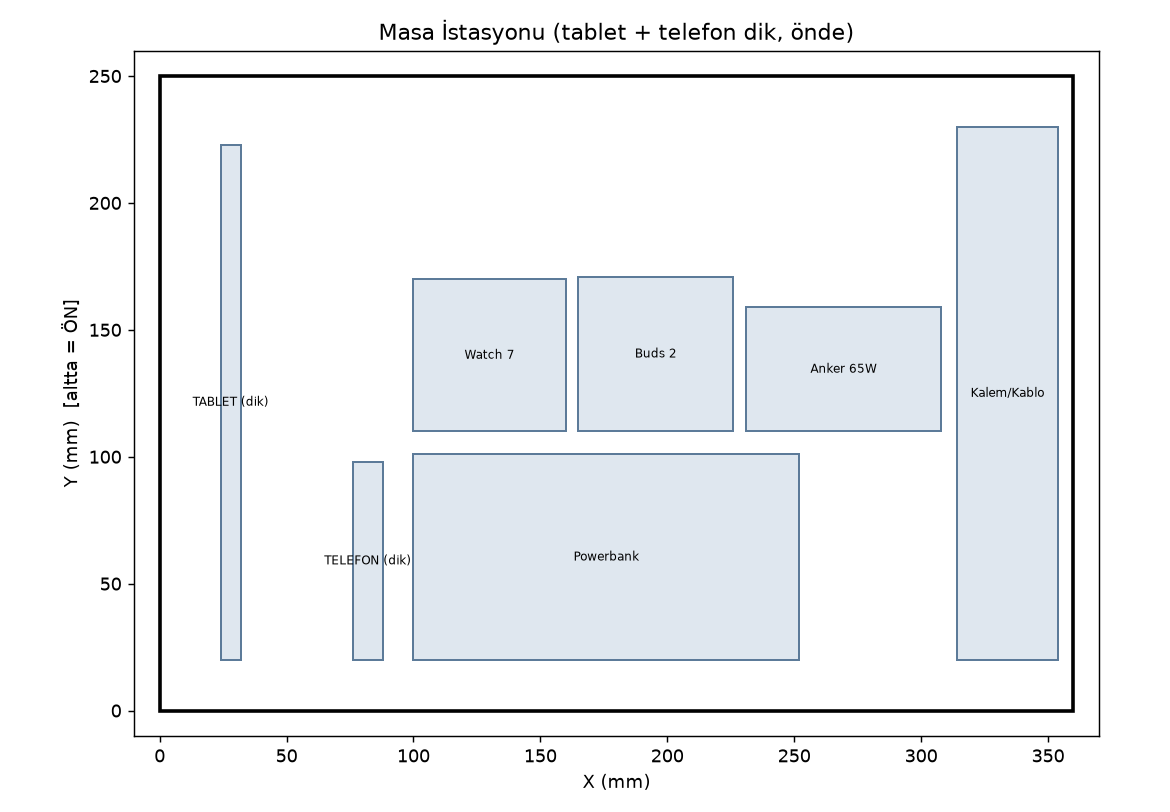
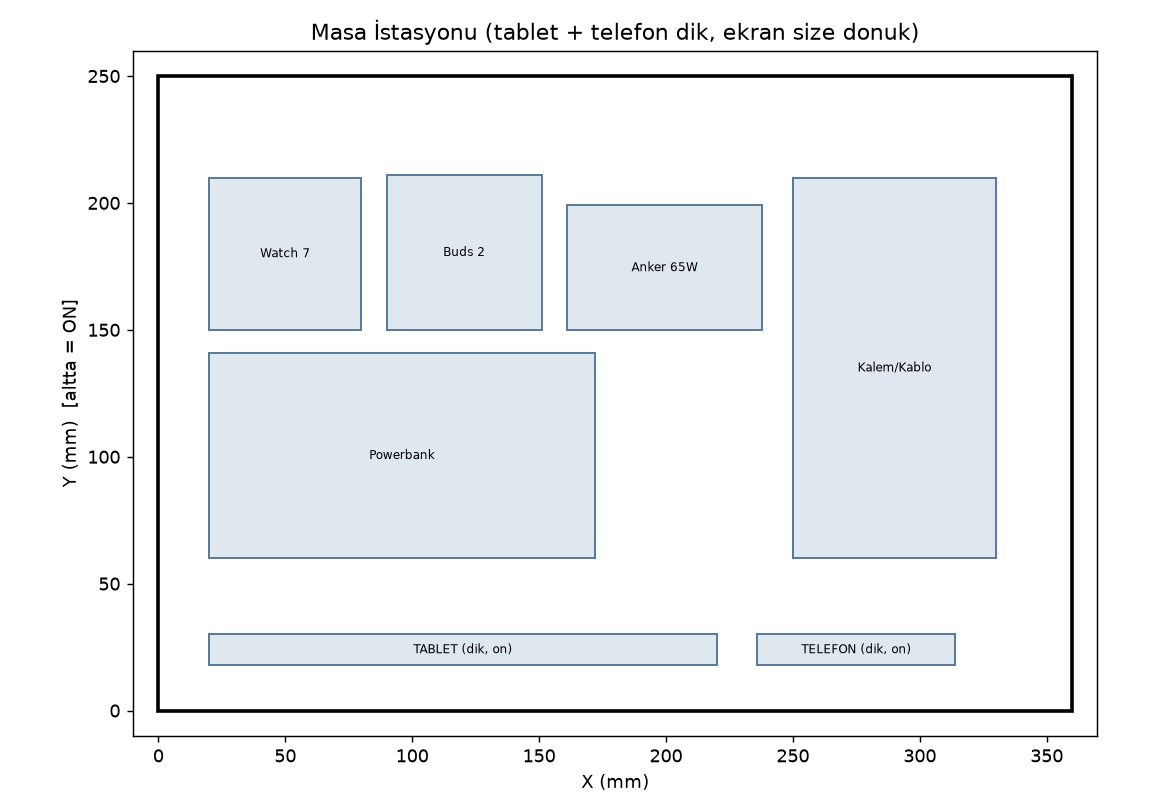
Review fixes: tablet/phone stand upright facing user, correct 317mm slot height, update site+README

diff --git a/3d-organizer/index.html b/3d-organizer/index.html
@@ -67,8 +67,8 @@
   </div>
 
   <aside id="panel">
-    <h1>Birleşik Masa / Şarj Organizeri</h1>
-    <div class="sub">6 cihaz tek tepside • 494 × 389 × 33 mm • %0 destek, PLA/PETG</div>
+    <h1>Masa İstasyonu — Tablet & Telefon Dik</h1>
+    <div class="sub">6 cihaz tek istasyonda • 360 × 250 × 317 mm • destek yok, PLA/PETG</div>
 
     <div class="card">
       <h2>Cihazlar ve göz boyutları</h2>
@@ -81,9 +81,9 @@
     <div class="card">
       <h2>Yerleşim</h2>
       <div class="meta">
-        <span class="tag">Sol kolon</span> Tablet (büyük göz) + aksesuar/kablo gözü<br><br>
-        <span class="tag">Sağ kolon ↑</span> Telefon → Powerbank → Watch 7 → Buds 2 → Anker Atom III<br><br>
-        Ön duvarda tablet ve telefon için parmak/kablo slotu var.
+        <span class="tag">Ön (kullanıcı)</span> Tablet ve telefon <b>dik/ayakta</b>, ekran size dönük<br><br>
+        <span class="tag">Arka</span> Powerbank → Watch 7 → Buds 2 → Anker + kalem/kablo gözü<br><br>
+        Cihazlar üstten slotlara yerleştirilir; taban 360 × 250 mm, toplam yükseklik 317 mm.
       </div>
       <img src="preview.png" alt="yerleşim şeması" style="width:100%;border-radius:8px;margin-top:8px;border:1px solid var(--line)">
     </div>
@@ -102,8 +102,9 @@
       <div class="meta">
         Malzeme: <code>PLA / PETG</code> • Katman: <code>0.2 mm</code><br>
         Duvar: <code>3</code> • İnfill: <code>%15–20</code> • Destek: <code>yok</code><br><br>
-        Model 494 mm geniş → tek parça ancak ~400–500 mm yatakta basılır.
-        Küçük yatakta bölünmüş (sol/sağ) versiyon isteyebilirsiniz.
+        Taban <code>360 × 250 mm</code>, toplam yükseklik <code>317 mm</code> (tablet dik).<br>
+        Z yüksekliğınız 317 mm olmalı; az ise tablet yatay (flat) versiyon isteyin.
+        Küçük yatakta bölünmüş versiyon da hazırlayabilirim.
       </div>
     </div>
   </aside>
@@ -115,12 +116,12 @@ import { OrbitControls } from 'three/addons/controls/OrbitControls.js';
 import { STLLoader } from 'three/addons/loaders/STLLoader.js';
 
 const devices = [
-  {name:"Galaxy Tab S10 FE+ (tablet)", real:"300.6 × 194.7 × 6.0", pocket:"311 × 205", zone:"Sol kolon"},
-  {name:"Galaxy S25 (telefon)",       real:"146.9 × 70.5 × 7.2",  pocket:"157 × 81",  zone:"Sağ kolon"},
-  {name:"Samsung 10000 mAh powerbank",real:"141.8 × 71 × 14",     pocket:"152 × 81",  zone:"Sağ kolon"},
-  {name:"Galaxy Watch 7 (44 mm)",     real:"44.4 × 44.4 × 9.7",   pocket:"60 × 60",   zone:"Sağ kolon"},
-  {name:"Galaxy Buds 2",              real:"50.0 × 50.2 × 27.8",  pocket:"61 × 61",   zone:"Sağ kolon"},
-  {name:"Anker Atom III 65W",         real:"66.1 × 38.3 × 30",    pocket:"77 × 49",   zone:"Sağ kolon"},
+  {name:"Galaxy Tab S10 FE+ (tablet)", real:"300.6 × 194.7 × 6.0", pocket:"Dik slot 200×12 (Y), 311 yüksek", zone:"Ön (dik)"},
+  {name:"Galaxy S25 (telefon)",       real:"146.9 × 70.5 × 7.2",  pocket:"Dik slot 78×12 (Y), 166 yüksek",  zone:"Ön (dik)"},
+  {name:"Samsung 10000 mAh powerbank",real:"141.8 × 71 × 14",     pocket:"Gömme göz 152 × 81",  zone:"Arka"},
+  {name:"Galaxy Watch 7 (44 mm)",     real:"44.4 × 44.4 × 9.7",   pocket:"Gömme göz 60 × 60",   zone:"Arka"},
+  {name:"Galaxy Buds 2",              real:"50.0 × 50.2 × 27.8",  pocket:"Gömme göz 61 × 61",   zone:"Arka"},
+  {name:"Anker Atom III 65W",         real:"66.1 × 38.3 × 30",    pocket:"Gömme göz 77 × 49",   zone:"Arka"},
 ];
 const tbody = document.getElementById('rows');
 devices.forEach(d=>{

diff --git a/3d-organizer/gen.py b/3d-organizer/gen.py
@@ -1,16 +1,18 @@
 #!/usr/bin/env python3
-# Combined vertical desk charging STATION (tablet + phone stand upright at front,
-# other devices in recessed wells). Pure stdlib -> binary STL.
+# Combined VERTICAL desk charging STATION.
+# Tablet + phone stand UPRIGHT at the FRONT, screens facing the user (-Y).
+# Other 4 devices + pen/cable sit in recessed wells behind them.
+# Pure stdlib -> binary STL.
 import struct, os, json, math
 
 OUTDIR = os.path.dirname(os.path.abspath(__file__))
 os.makedirs(OUTDIR, exist_ok=True)
 
-# ---- Base / outer dims ----
 BW, BD, BASE = 360.0, 250.0, 6.0   # base footprint (X width, Y depth, Z thickness)
-OW_H   = 30.0                       # outer perimeter wall height
-SLOT_T = 6.0                       # generic wall thickness
+OW_H   = 30.0                      # outer perimeter wall height
+SLOT_T = 6.0                      # generic wall thickness
 
+# device real dims (mm): (long, short) for the face the user sees
 DEVICES = {
     "Galaxy Tab S10 FE+ (tablet)": (300.6, 194.7),
     "Galaxy S25 (telefon)":        (146.9, 70.5),
@@ -20,34 +22,37 @@ DEVICES = {
     "Anker Atom III 65W":          (66.1, 38.3),
 }
 
-# ---- Box list (x0,y0,z0,x1,y1,z1) ----
 boxes = []
 def add(x0,y0,z0,x1,y1,z1): boxes.append((x0,y0,z0,x1,y1,z1))
 
 # Base slab
 add(0,0,0, BW,BD,BASE)
 
-# Outer perimeter walls (height OW_H)
-add(0,0,BASE, BW,SLOT_T,BASE+OW_H)          # front
-add(0,BD-SLOT_T,BASE, BW,BD,BASE+OW_H)      # back
-add(0,0,BASE, SLOT_T,BD,BASE+OW_H)          # left
-add(BW-SLOT_T,0,BASE, BW,BD,BASE+OW_H)      # right
+# Outer perimeter walls
+add(0,0,BASE, BW,SLOT_T,BASE+OW_H)        # front
+add(0,BD-SLOT_T,BASE, BW,BD,BASE+OW_H)    # back
+add(0,0,BASE, SLOT_T,BD,BASE+OW_H)        # left
+add(BW-SLOT_T,0,BASE, BW,BD,BASE+OW_H)    # right
 
-# Tablet vertical slot (front-left), tall
-TS_H = 221.0
-add(18,20,BASE, 24,223,TS_H)            # front wall (in X)
-add(32,20,BASE, 38,223,TS_H)            # back wall
-add(18,20,BASE, 38,26,TS_H)             # end cap (Y small)
-add(18,217,BASE, 38,223,TS_H)           # end cap (Y large)
+# ---- Tablet vertical slot (faces user), front-left ----
+TX0,TX1 = 20.0, 220.0      # inner X (width along screen) = 200
+TY0,TY1 = 18.0, 30.0       # inner Y (thickness) = 12
+TZ = 311.0                 # tall enough for 300.6 mm tablet
+add(TX0-SLOT_T, TY0-SLOT_T, BASE, TX1+SLOT_T, TY0, BASE+TZ)   # front wall
+add(TX0-SLOT_T, TY1,       BASE, TX1+SLOT_T, TY1+SLOT_T, BASE+TZ) # back wall
+add(TX0-SLOT_T, TY0,       BASE, TX0,        TY1, BASE+TZ)   # left cap
+add(TX1,       TY0,       BASE, TX1+SLOT_T, TY1, BASE+TZ)   # right cap
 
-# Phone vertical slot (front-center)
-PS_H = 166.0
-add(70,20,BASE, 76,98,PS_H)             # front wall
-add(88,20,BASE, 94,98,PS_H)             # back wall
-add(70,20,BASE, 94,26,PS_H)             # end cap
-add(70,92,BASE, 94,98,PS_H)             # end cap
+# ---- Phone vertical slot (faces user), front-right ----
+PX0,PX1 = 236.0, 314.0
+PY0,PY1 = 18.0, 30.0
+PZ = 166.0
+add(PX0-SLOT_T, PY0-SLOT_T, BASE, PX1+SLOT_T, PY0, BASE+PZ)
+add(PX0-SLOT_T, PY1,       BASE, PX1+SLOT_T, PY1+SLOT_T, BASE+PZ)
+add(PX0-SLOT_T, PY0,       BASE, PX0,        PY1, BASE+PZ)
+add(PX1,       PY0,       BASE, PX1+SLOT_T, PY1, BASE+PZ)
 
-# Recessed wells: 4 walls each (bottom, top, left, right strips)
+# ---- Recessed wells (4 walls each) ----
 def well(ix0,iy0,ix1,iy1,h):
     z0=BASE; z1=BASE+h; t=SLOT_T
     add(ix0,iy0,z0, ix1,iy0+t,z1)          # bottom strip
@@ -55,21 +60,21 @@ def well(ix0,iy0,ix1,iy1,h):
     add(ix0,iy0,z0, ix0+t,iy1,z1)          # left strip
     add(ix1-t,iy0,z0, ix1,iy1,z1)          # right strip
 
-well(100,20, 252,101, 22)     # powerbank
-well(100,110,160,170, 30)     # watch
-well(165,110,226,171, 32)     # buds
-well(231,110,308,159, 34)     # anker
-well(314,20, 354,230, 22)     # pen / cable
+well(20,60,  172,141, 22)     # powerbank (flat)
+well(20,150, 80,210, 30)      # watch
+well(90,150, 151,211, 32)     # buds
+well(161,150,238,199, 34)     # anker
+well(250,60, 330,210, 22)     # pen / cable
 
-# Pocket rects (for preview + params): inner usable areas
+# Pocket rects for preview/params (inner usable areas)
 POCKETS = [
-    ("TABLET (dik)", 24,20, 32,223),
-    ("TELEFON (dik)", 76,20, 88,98),
-    ("Powerbank", 100,20, 252,101),
-    ("Watch 7", 100,110, 160,170),
-    ("Buds 2", 165,110, 226,171),
-    ("Anker 65W", 231,110, 308,159),
-    ("Kalem/Kablo", 314,20, 354,230),
+    ("TABLET (dik, on)", 20,18, 220,30),
+    ("TELEFON (dik, on)", 236,18, 314,30),
+    ("Powerbank", 20,60, 172,141),
+    ("Watch 7", 20,150, 80,210),
+    ("Buds 2", 90,150, 151,211),
+    ("Anker 65W", 161,150, 238,199),
+    ("Kalem/Kablo", 250,60, 330,210),
 ]
 
 # ---- Mesh ----
@@ -108,21 +113,18 @@ def write_stl(path):
 
 write_stl(os.path.join(OUTDIR,"combined_organizer.stl"))
 
-# stats
 allp=[v for _,a,b,c in tris for v in (a,b,c)]
 print("STL triangles:",len(tris))
 print("BBox X %.1f Y %.1f Z %.1f"%(max(p[0] for p in allp)-min(p[0] for p in allp),
       max(p[1] for p in allp)-min(p[1] for p in allp), max(p[2] for p in allp)-min(p[2] for p in allp)))
 
-# params
-json.dump({"type":"vertical desk station","base_mm":[BW,BD,BASE],
-           "outer_wall_height_mm":OW_H,"tablet_slot_height_mm":TS_H,
-           "phone_slot_height_mm":PS_H,
+json.dump({"type":"vertical desk station (reviewed/fixed)",
+           "base_mm":[BW,BD,BASE],"outer_wall_height_mm":OW_H,
+           "tablet_slot_height_mm":TZ,"phone_slot_height_mm":PZ,
            "devices_real_mm":DEVICES,
            "pockets_inner_xy":{n:[x0,y0,x1,y1] for n,x0,y0,x1,y1 in POCKETS}},
           open(os.path.join(OUTDIR,"params.json"),"w"), indent=2, ensure_ascii=False)
 
-# preview (top view)
 try:
     import matplotlib; matplotlib.use("Agg"); import matplotlib.pyplot as plt
     from matplotlib.patches import Rectangle
@@ -132,8 +134,8 @@ try:
         ax.add_patch(Rectangle((x0,y0),x1-x0,y1-y0,fill=True,fc="#dfe7ef",ec="#5b7a99",lw=1.1))
         ax.text((x0+x1)/2,(y0+y1)/2,name,ha="center",va="center",fontsize=6.5)
     ax.set_xlim(-10,BW+10); ax.set_ylim(-10,BD+10); ax.set_aspect("equal")
-    ax.set_title("Masa İstasyonu (tablet + telefon dik, önde)")
-    ax.set_xlabel("X (mm)"); ax.set_ylabel("Y (mm)  [altta = ÖN]")
+    ax.set_title("Masa İstasyonu (tablet + telefon dik, ekran size donuk)")
+    ax.set_xlabel("X (mm)"); ax.set_ylabel("Y (mm)  [altta = ON]")
     plt.tight_layout(); plt.savefig(os.path.join(OUTDIR,"preview.png"),dpi=130)
     print("preview written")
 except Exception as e:

diff --git a/3d-organizer/README.md b/3d-organizer/README.md
@@ -13,10 +13,10 @@ hazırlanmış, 3D yazıcıya doğrudan gönderilebilecek bir `.stl` modeli bulu
 | 5 | Galaxy Buds 2 (şarj kutusu)| 50.0 × 50.2 × 27.8 | Gömme göz 61 × 61 |
 | 6 | Anker Atom III 65W         | 66.1 × 38.3 × 30   | Gömme göz 77 × 49 |
 
-Ayrıca sol altta fazladan bir **aksesuar / kablo gözü** var.
+Arkada ayrıca bir **kalem / kablo gözü** bulunur.
 
 ## Dosyalar
-- `combined_organizer.stl` — baskıya hazır birleşik model (494 × 389 × 33 mm).
+- `combined_organizer.stl` — baskıya hazır birleşik model (360 × 250 × 317 mm).
 - `preview.png` — üstten görünüm (yerleşim şeması).
 - `params.json` — tüm boyut ve göz koordinatları (tekrar üretim / düzenleme için).
 - `gen.py` — modeli üreten sıfır‑bağımlılıklı Python betiği (istediğinizde göz boyutlarını değiştirip yeniden çalıştırabilirsiniz).
@@ -24,7 +24,7 @@ Ayrıca sol altta fazladan bir **aksesuar / kablo gözü** var.
 ## Yerleşim
 - **Ön (kullanıcıya yakın):** Tablet ve telefon **dik / ayakta** durur (uzun slotlar).
 - **Arka / sağ bölge:** Powerbank, Watch 7, Buds 2, Anker Atom III için gömme gözler + ayrı bir kalem/kablo gözü.
-- Taban **360 × 250 mm**; tablet slotu **221 mm**, telefon slotu **166 mm** yüksekliğinde.
+- Taban **360 × 250 mm**; tablet slotu **317 mm** (tablet dik), telefon slotu **166 mm** yüksekliğinde. Toplam yükseklik 317 mm.
 
 ## Baskı önerileri
 - **Malzeme:** PLA veya PETG.
@@ -35,9 +35,10 @@ Ayrıca sol altta fazladan bir **aksesuar / kablo gözü** var.
 - **Yön:** Olduğu gibi düz zemine (tablaya) basılır.
 
 ## Önemli not — baskı yatağı boyutu
-Model **494 × 389 mm** olduğundan tek parça olarak ancak ~500 mm'lik bir yatakta
-(ör. 400×400, 350×350, Ultimaker vb.) basılabilir. 220×220 ya da 256×256 gibi
-küçük yataklarda **tek parça sığmaz**.
+Taban **360 × 250 mm**, toplam yükseklik **317 mm** (tablet dik durduğu için Z=317 gerekir).
+Yatak Z yüksekliğiniz 317 mm altındaysa tablet yatay (flat) versiyon isteyin.
+Taban 360 mm geniş olduğundan tek parça ancak ~360 mm'lik bir yatakta (ör. 400×400,
+350×350, Ultimaker vb.) basılır. 220×220 / 256×256 gibi küçük yataklarda **tek parça sığmaz**.
 
 Seçenekler:
 1. `gen.py` içindeki göz koordinatlarını düzenleyip modeli ikiye bölerek (sol / sağ
